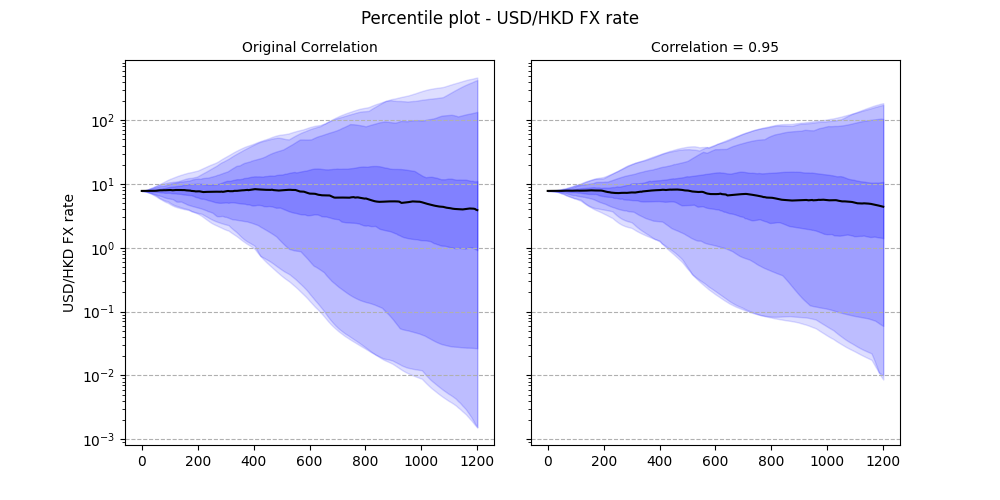
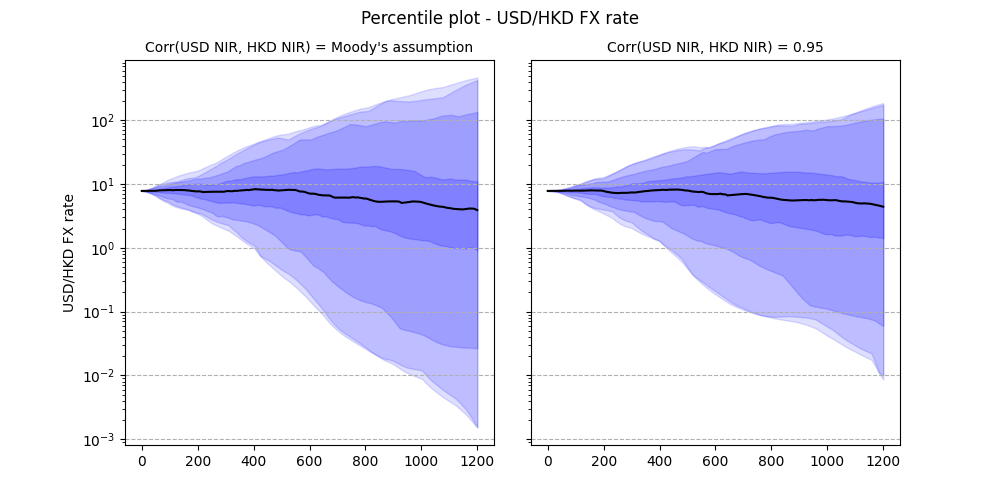
update chart title

Changed region(s): [[0.155, 0.06, 0.465, 0.12], [0.62, 0.06, 0.837, 0.12]]

diff --git a/fx-quantile.py b/fx-quantile.py
@@ -32,10 +32,10 @@ fx_orig = 1/ read_csv_to_mat('FX_Rate_Orig.csv')
 # %%
 fig, axs = plt.subplots(1, 2, figsize=(10, 5), sharey=True)
 plot_percentile(axs[0], fx_orig)
-axs[0].set_title('Original Correlation', fontsize=10)
+axs[0].set_title("Corr(USD NIR, HKD NIR) = Moody's assumption", fontsize=10)
 axs[0].set_ylabel('USD/HKD FX rate', fontsize=10)
 plot_percentile(axs[1], fx)
-axs[1].set_title('Correlation = 0.95', fontsize=10)
+axs[1].set_title('Corr(USD NIR, HKD NIR) = 0.95', fontsize=10)
 axs[1].tick_params(axis='y', which='both', labelleft=False)
 fig.suptitle('Percentile plot - USD/HKD FX rate')
 
